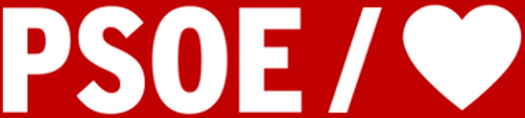
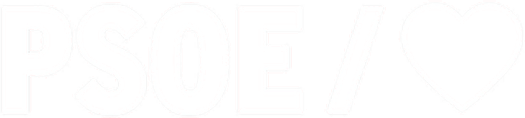
lista

diff --git a/client/modales.less b/client/modales.less
@@ -781,6 +781,8 @@ button {
 }
 
 #ventanas>.lista {
+  max-width: 750px;
+  width: 100%;
   &.editar {
     z-index: 1001;
   }
@@ -789,15 +791,16 @@ button {
     pointer-events: all;
   }
   box-sizing: border-box;
-  max-height: 100vh;
   min-height: 100vh;
-  width: 100vw;
   overflow-y: auto;
   display: flex;
   flex-direction: column;
   align-items: center;
   &>div.ribbon.ventana {
     &:first-child {
+      position: fixed;
+      top: 0;
+      z-index: 1;
       margin: 0 25px 25px;
       border-top-left-radius: 0;
       border-top-right-radius: 0;
@@ -805,13 +808,17 @@ button {
       transition: padding-top .3s ease-out;
     }
     &:last-child {
+      position: fixed;
+      bottom: 0;
+      z-index: 1;
       margin-top: 20px;
       margin-bottom: 0;
       border-bottom-left-radius: 0;
       border-bottom-right-radius: 0;
     }
+
     color: var(--color-fondo);
-    background: var(--color-basico-f75);
+    background: var(--color-basico-f25);
     .cabecero {
       justify-content: flex-start;
       span {
@@ -824,10 +831,15 @@ button {
       margin-bottom: 30px;
       font-family: 'Raleway';
     }
-    width: 750px;
+    max-width: 750px;
+    width: 100%;
   }
-  &>.crecer {
+  &>.contenido {
     flex-grow: 1;
+    background: var(--color-tinta-f5);
+    padding-top: 100px;
+    padding-bottom: 100px;
+    max-width: 750px;
+    width: 100%;
   }
-
 }

diff --git a/client/main.css b/client/main.css
@@ -4,15 +4,15 @@ body {
   --titulos:Overpass;
   --etiquetas:Roboto;
   --border-radius:4px;
-  --color-basico:#fe790a;
-  --color-basico-l1:hsl(27.30000000000001, 99.2%, 56.9%);
-  --color-basico-l25:hsl(27.30000000000001, 99.2%, 64.7%);
-  --color-basico-d05:hsl(27.30000000000001, 99.2%, 49.2%);
-  --color-basico-l02:hsl(27.30000000000001, 99.2%, 50.7%);
-  --color-basico-f5:rgba(254, 121, 10, 0.5);
-  --color-basico-f15:rgba(254, 121, 10, 0.85);
-  --color-basico-f25:rgba(254, 121, 10, 0.75);
-  --color-basico-f75:rgba(254, 121, 10, 0.25);
+  --color-basico:#c10000;
+  --color-basico-l1:hsl(0, 100%, 56.9%);
+  --color-basico-l25:hsl(0, 100%, 64.7%);
+  --color-basico-d05:hsl(0, 100%, 49.2%);
+  --color-basico-l02:hsl(0, 100%, 50.7%);
+  --color-basico-f5:rgba(192, 0, 0, 0.5);
+  --color-basico-f15:rgba(192, 0, 0, 0.85);
+  --color-basico-f25:rgba(192, 0, 0, 0.75);
+  --color-basico-f75:rgba(192, 0, 0, 0.25);
   --color-secundario:#1ba4ba;
   --color-secundario-l1:hsl(188.29999999999995, 74.6%, 45.9%);
   --color-secundario-l25:hsl(188.29999999999995, 74.6%, 52.2%);

diff --git a/client/menu/menu.html b/client/menu/menu.html
@@ -1,0 +1,30 @@
+<template name="menu">
+  <div class="fade lista">
+    <div class="ribbon ventana">
+      <div class="cabecero">
+        <img src="/PSOECORAZON.png">
+      </div>
+    </div>
+      <div class="contenido botoneraVertical">
+          {{#each elemento in datos.menu}}
+          <button>{{elemento}}</button>
+          {{/each}}
+      </div>
+    <div class="crecer"></div>
+    <div class="ribbon ventana crecer">
+      <div class="botonera">
+      </div>
+    </div>
+  </div>
+</template>
+
+<template name="fichaUsuario">
+  <div class="ventana">
+    <div class="cuerpo">
+      {{correo}} - {{pagina}} <br>
+      {{#each item in items}}
+        {{item.nombre}}
+      {{/each}}
+    </div>
+  </div>
+</template>

diff --git a/client/portada/portada.less b/client/portada/portada.less
@@ -1,0 +1,25 @@
+#logo {
+  padding: 50px;
+  background: #c10000;
+  animation-name: hueRotate;
+  animation-direction: alternate;
+  animation-duration: 4s;
+  margin: 0 20px;
+  img {
+    max-width: 100%;
+  }
+}
+@keyframes hueRotate {
+  0% {
+    filter: hue-rotate(0deg);
+  }
+  20% {
+    filter: hue-rotate(0deg);
+  }
+  60% {
+    filter: hue-rotate(180deg);
+  }
+  100% {
+    filter: hue-rotate(360deg);
+  }
+}

diff --git a/client/portada/portada.js b/client/portada/portada.js
@@ -1,5 +1,18 @@
 import { ventanas } from 'meteor/hacknlove:ventanas'
+import { Template } from 'meteor/templating'
 
-ventanas.insert({
+ventanas.upsert({
   _id: 'portada'
+}, {
+  $inc: {
+    times: 1
+  }
+})
+ventanas.updateUrl()
+
+Template.portada.events({
+  'animationend #logo' () {
+    ventanas.close('portada')
+    ventanas.insert({ _id: 'menu' })
+  }
 })

diff --git a/client/menu/menu.less b/client/menu/menu.less
@@ -1,0 +1,18 @@
+.ribbon {
+  .cabecero {
+    img {
+      height: 20px;
+    }
+  }
+}
+.botoneraVertical {
+  display: flex;
+  flex-direction: column;
+  padding: 30px;
+  box-sizing: border-box;
+  align-items: center;
+  button {
+    width: 100%;
+    max-width: 300px;
+  }
+}

diff --git a/client/portada/portada.html b/client/portada/portada.html
@@ -1,5 +1,5 @@
 <template name="portada">
-  <div class="fade">
+  <div id="logo" class="fade close openWindow" data-_id="menu">
     <img src="/PSOECORAZON.png">
   </div>
 </template>

diff --git a/client/main.js b/client/main.js
@@ -1,0 +1,6 @@
+import { Template } from 'meteor/templating'
+import datos from '/common/programa.json'
+
+Template.registerHelper('datos', function () {
+  return datos
+})
